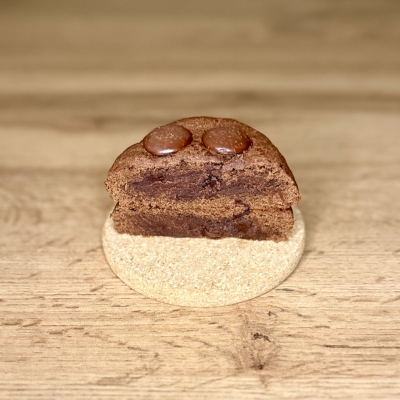
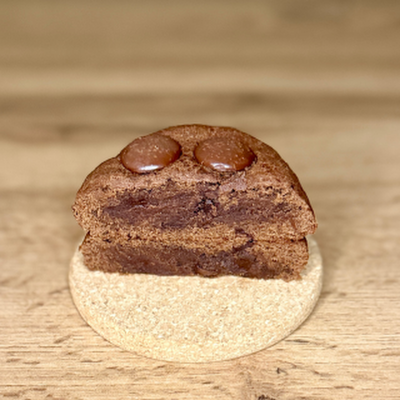
feat(catalogue): prix septembre, ingredients et photos (demandes Matteo 06/09)
Textes et catalogue (Goukie.html) :
- description Edition Limitee -> "Decouvrez les Insolites, des goukies aux
  recettes inedites a duree limitee."
- Le 80 (ete) ajoute aux Goukies de saison de l'archive, entre le printemps
  et l'hiver ; compteur 9 -> 10. Il reste en vedette Goukie de saison.

Prix (Goukies.json) :
- Le 48, goukie du mois : 4,50 -> 5,50 a l'unite, plus lots alignes sur Le 80
  (15,50 les 3, 26,00 les 5).
- Le 08 et Le 11 : passage au format Gourmets. Le bouton "Petit" a 3 euros et
  le lot de 4 a 16 euros disparaissent au profit de 5,00 l'unite, 14,00 les 3,
  23,00 les 5, comme les autres Gourmets.
- Ice Goukies (Vanille, Chocolat, Coco) : lots ajoutes, 8,00 l'unite,
  23,00 les 3, 39,00 les 5.
- Minis : poids unitaire 50 g sur les 9 fiches.

Ingredients (Goukies.json) :
- "Chocolat en poudre van Houten" -> "Chocolat en poudre Noir Intense" sur les
  6 fiches concernees (Le 08, Le 06, Le 18 et leurs minis).
- Le 35 : "Pate de haricots rouges Azuki" -> "Haricot rouge azuki".

Fiche produit (Goukie-detail.html/.js) :
- le mot "Taille" disparait de l'ecran, le poids le porte deja juste au-dessus.
  Le selecteur reste annonce aux lecteurs d'ecran via role=group aria-label.
- categorie ice : lots de 3 et 5 rendus depuis format_gourmet.
- branche "essentiels" retiree : plus aucune fiche ne porte cette categorie
  apres le passage de Le 08 et Le 11 en Gourmets, la branche etait devenue
  inatteignable.

Photos (goukie_images/08*.png, 08.webp) :
[…]

diff --git a/Goukie-detail.js b/Goukie-detail.js
@@ -85,18 +85,10 @@ function setupSizeButtons(Goukie) {
   sizeSelector.innerHTML = '';
 
   // Déterminer la catégorie du Goukie et configurer les boutons en conséquence
-  if (Goukie.categorie === 'essentiels') {
-    // Essentiels : à l'unité + lot de 4 (la promo devient sélectionnable)
-    if (Goukie.prix.petit !== null) {
-      addSizeButton(sizeSelector, 'Petit', 'Petit', Goukie.prix.petit);
-    }
-    if (Goukie.prix.moyen !== null) {
-      addSizeButton(sizeSelector, "À l'unité", "À l'unité", Goukie.prix.moyen);
-    }
-    if (Goukie.format_standard && Goukie.format_standard.x4 !== null) {
-      addSizeButton(sizeSelector, 'Lot de 4', 'Lot de 4', Goukie.format_standard.x4);
-    }
-  } else if (Goukie.categorie === 'gourmets') {
+  // La categorie "essentiels" (bouton Petit + lot de 4) a ete retiree le
+  // 2026-09-06 : Goukies.json ne contient plus aucune fiche essentiels, Le 08 et
+  // Le 11 etant passes au format Gourmets. La branche etait donc inatteignable.
+  if (Goukie.categorie === 'gourmets') {
     // Gourmets : à l'unité + lots de 3 et 5 (promos sélectionnables)
     if (Goukie.prix.moyen !== null) {
       addSizeButton(sizeSelector, "À l'unité", "À l'unité", Goukie.prix.moyen);
@@ -127,9 +119,15 @@ function setupSizeButtons(Goukie) {
       addSizeButton(sizeSelector, 'Lot de 5', 'Lot de 5', Goukie.format_gourmet.x5);
     }
   } else if (Goukie.categorie === 'ice') {
-    // Ice Goukie : vendu a l'unite uniquement
+    // Ice Goukie : a l'unite + lots de 3 et 5 (promos selectionnables)
     if (Goukie.prix.moyen !== null) {
       addSizeButton(sizeSelector, "À l'unité", "À l'unité", Goukie.prix.moyen);
+    }
+    if (Goukie.format_gourmet && Goukie.format_gourmet.x3 !== null) {
+      addSizeButton(sizeSelector, 'Lot de 3', 'Lot de 3', Goukie.format_gourmet.x3);
+    }
+    if (Goukie.format_gourmet && Goukie.format_gourmet.x5 !== null) {
+      addSizeButton(sizeSelector, 'Lot de 5', 'Lot de 5', Goukie.format_gourmet.x5);
     }
   } else if (Goukie.categorie === 'epicerie') {
     // Pour les produits d'épicerie (pots)

diff --git a/Goukie.html b/Goukie.html
@@ -117,7 +117,7 @@
   <section class="Goukies-section" id="edition-limitee">
     <div class="container">
       <h2 class="category-title">Édition Limitée</h2>
-      <p class="category-description">Découvrez nos créations spéciales, des recettes inédites à durée limitée.
+      <p class="category-description">Découvrez les Insolites, des goukies aux recettes inédites à durée limitée.
       </p>
 
       <div class="Goukies-grid edition-limitee-grid">
@@ -228,7 +228,7 @@
 
       <!-- Anciens goukies, repliés par défaut pour alléger la page -->
       <details class="insolites-archive">
-        <summary class="insolites-archive-toggle">Voir les anciens goukies (9)</summary>
+        <summary class="insolites-archive-toggle">Voir les anciens goukies (10)</summary>
 
         <h3 class="subcategory-title">Les Goukies du mois</h3>
         <div class="Goukies-grid">
@@ -276,6 +276,11 @@
             <img src="goukie_images/30.webp" alt="Le 30" width="400" height="400" loading="lazy" decoding="async">
             <h3>Le 30</h3>
             <p>Le goukie du printemps. Une base vanille douce et dorée, un cœur fondant à l'ube, intensément violet et délicatement parfumé.</p>
+          </a>
+          <a href="Goukie-detail.html?id=le-80" class="Goukie-card">
+            <img src="goukie_images/80.webp" alt="Le 80" width="400" height="400" loading="lazy" decoding="async">
+            <h3>Le 80</h3>
+            <p>Le goukie d'été. Une pâte délicatement parfumée au basilic bio frais, un cœur fondant à la fraise locale et une légère touche de sésame.</p>
           </a>
           <a href="Goukie-detail.html?id=le-21" class="Goukie-card">
             <img src="goukie_images/21.webp" alt="Le 21" width="400" height="400" loading="lazy" decoding="async">

diff --git a/Goukie-detail.html b/Goukie-detail.html
@@ -146,8 +146,7 @@
 
         <div class="Goukie-options">
           <div class="option-group">
-            <label for="Goukie-size">Taille :</label>
-            <div class="size-selector">
+            <div class="size-selector" role="group" aria-label="Format">
             </div>
           </div>
 

diff --git a/sw.js b/sw.js
@@ -1,5 +1,5 @@
 // Version du cache (à incrémenter à chaque déploiement majeur)
-const CACHE_NAME = 'les100-cache-v5';
+const CACHE_NAME = 'les100-cache-v6';
 
 // Ressources à mettre en cache immédiatement (fallback hors-ligne)
 const CACHE_URLS = [
